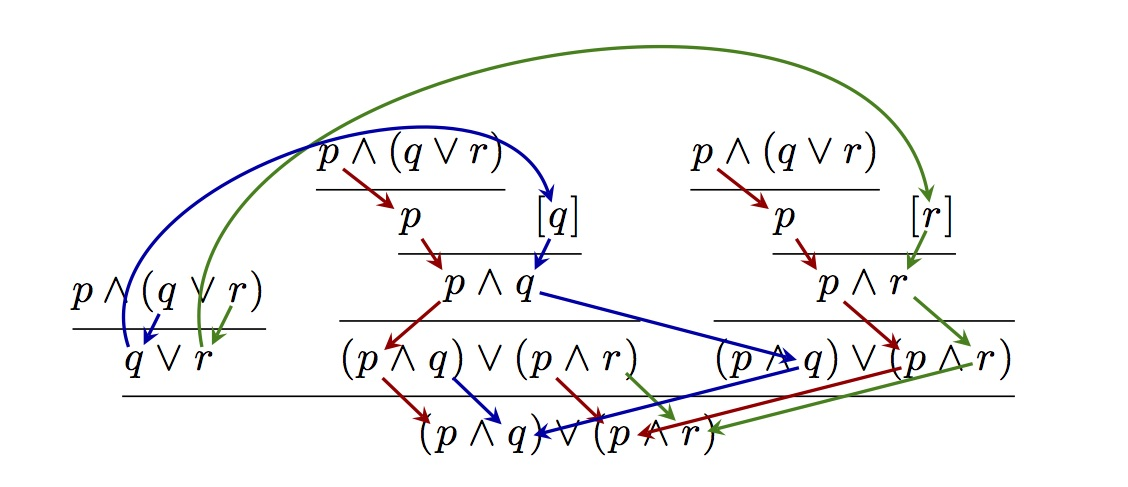
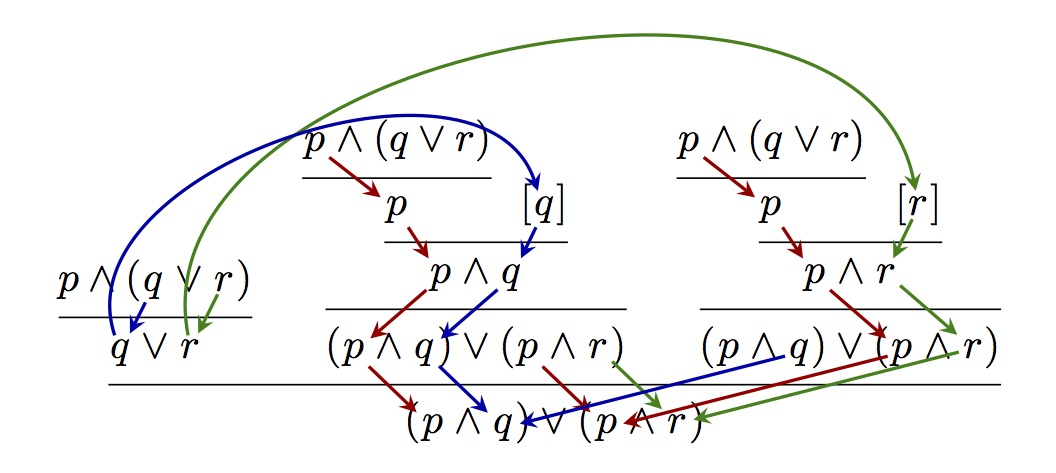
fix q link in flow graph

diff --git a/content/news/2017/typesetting-flow-graphs.md b/content/news/2017/typesetting-flow-graphs.md
@@ -16,6 +16,13 @@ Here's an example:
 	<img src="/images/flowgraph.jpg" alt="a flow graph on a natural deduction proof">
 	<figcaption>A flow graph on a natural deduction proof.</figcaption>
 </figure>
+
+They're not easy to typset, because they're an overlay over a proof. The arrows indicate the flow of information inside a proof. 
+
+As an aside, I love the flow graph on this natural deduction proof because the ''action at a distance'' nature of the disjunction elimination step is called out by those two sweeping blue and green arcs---the \\(q\\) and \\(r\\) assumptions are discharged by the appeal to the disjunctive conclusion \\(q\lor r\\). These are the only non-local informational connections in the proof. Each other arc in the flow graph is local, from a premise to a conclusion.
+
+Now, typesetting these things is not straightforward, because the locations of the arrows are defined by typesetting the underlying proof (here, the black text) and the coloured arcs are typeset on top. How do you do that? And how do you do that in an algorithmic and structural way, focussing on the structure and not hand positioning each of the lines?  
+
 Thankfully, the tools to typset flow graphs are readily available, at least if you use [LaTeX](http://tug.org). I've written up a little document explaining how to do this, and the document and source are now [available on Github](https://github.com/consequently/flowgraphs) for you to use as you see fit. If you've got any questions, feedback or recommendations for how to extend the technique, please don't hesitate to get in touch. 
 
 I hope it's helpful.
